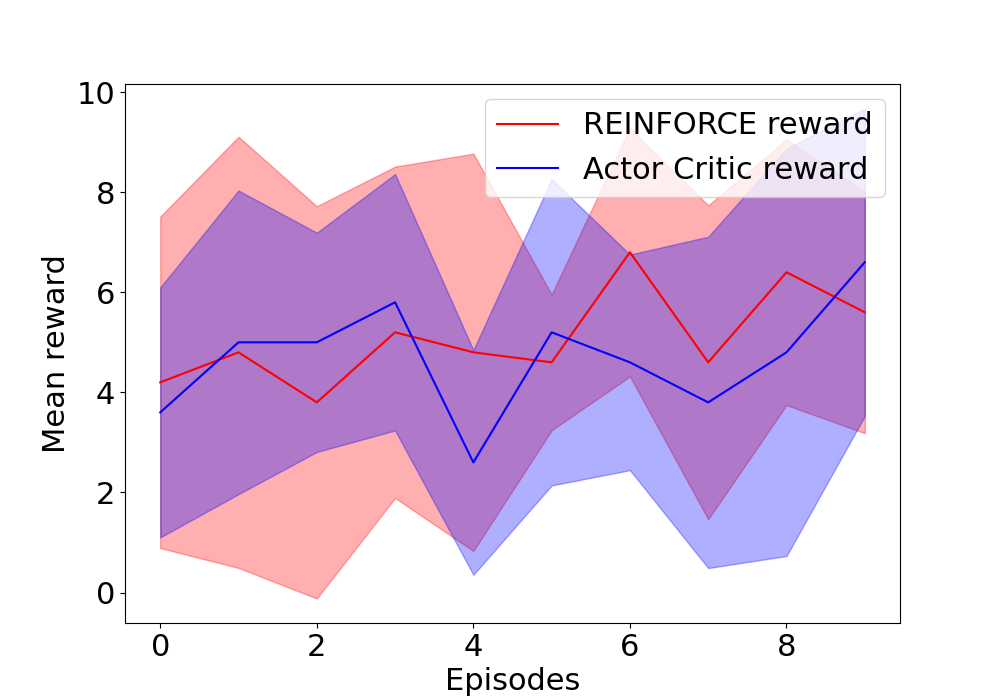
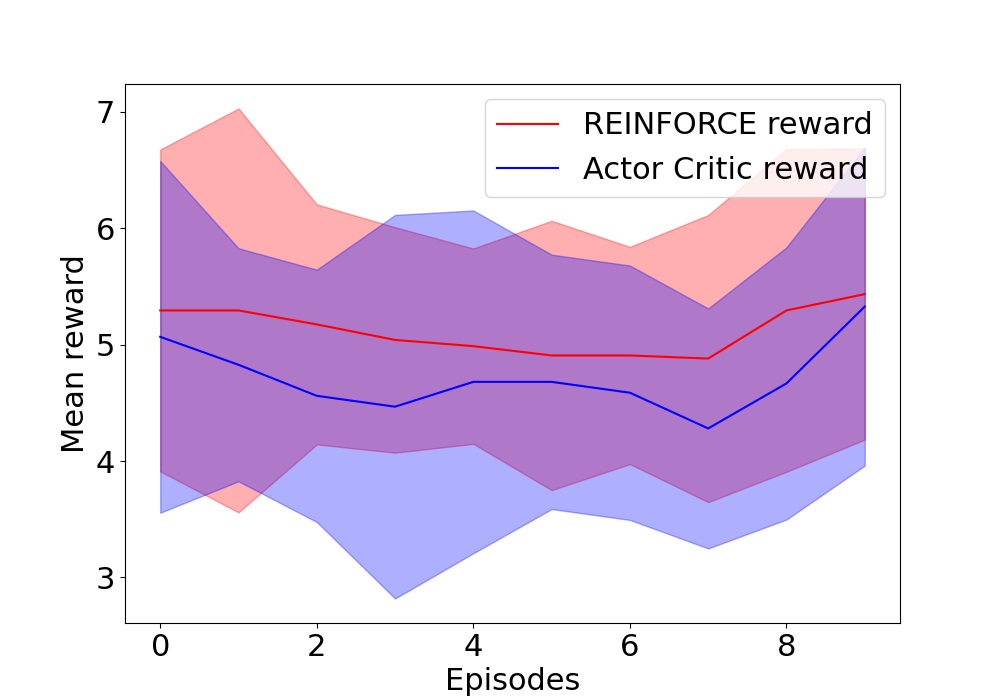
jahoe

diff --git a/TestFunctions.py b/TestFunctions.py
@@ -3,24 +3,28 @@ import time
 import sys
 
 #*******************************************************************************
-def Algorithm(nrEpisodes, interval):
-	reward_per_episodes = []
-	i = 0
-	for ep in range(nrEpisodes):
-		if i%interval==0: reward_per_episodes.append(random.randint(0, 10))
-		i+=1
+def Algorithm(nrEpisodes, interval, nrTestEpisodes):
+    reward_per_episodes = []
+    i = 0
+    for ep in range(nrEpisodes):
+        if i%interval==0: 
+            tempAvg = 0
+            for TE in range(nrTestEpisodes):
+                tempAvg += random.randint(0, 10) # TODO INSERT CODE HIER DIE ZONDER RANDOM EXPLORATIE (DUS 100% GREEDY) EEN PLAYOUT DOET VAN 1 EPISODE
+            reward_per_episodes.append(tempAvg/nrTestEpisodes)
+        i+=1
 
-		progress_bar(ep+1, nrEpisodes) 
-		time.sleep(0.005)
-	return reward_per_episodes
+        progress_bar(ep+1, nrEpisodes) 
+        time.sleep(0.005)
+    return reward_per_episodes
 #*******************************************************************************
 def progress_bar(current, total, bar_length=20):
-	percent = current / total
-	progress_length = int(bar_length * percent)
-	bar = '#' * progress_length + '-' * (bar_length - progress_length)
-	sys.stdout.write(f'\r[{bar}] {percent:.0%}')
-	sys.stdout.flush()
-	if percent == 1.0: 
-		sys.stdout.write('\r\033[K')
-		sys.stdout.flush()
+    percent = current / total
+    progress_length = int(bar_length * percent)
+    bar = '#' * progress_length + '-' * (bar_length - progress_length)
+    sys.stdout.write(f'\r[{bar}] {percent:.0%}')
+    sys.stdout.flush()
+    if percent == 1.0: 
+        sys.stdout.write('\r\033[K')
+        sys.stdout.flush()
 #*******************************************************************************

diff --git a/Experiments.py b/Experiments.py
@@ -26,15 +26,17 @@ def RunExperiment(ALGO, nameResults="testResults", repetition_count=20, params=N
 	print(average_array)
 	print(std_dev_array)
 	combinedResults = np.vstack((average_array, std_dev_array))
-	np.save(f'{nameResults}_{params['interval']}.npy', combinedResults)) # save the results containing both average and stdev in one file
+
+	np.save(f"{nameResults}_{params['interval']}.npy", combinedResults) # save the results containing both average and stdev in one file
 
 	#np.save(f'{nameResults}', np.array([average_array, std_dev_array, params['interval']])) # save the results containing both average and stdev in one file
 #*******************************************************************************
 
 
 params = {'nrEpisodes': 100,
-					'interval': 10
-				 }
+		  'interval': 10,
+		  'nrTestEpisodes': 5,
+		 }
 RunExperiment(RF, "rf", repetition_count=5, params=params) # Do experiments for REINFORCE
 RunExperiment(AC, "ac", repetition_count=5, params=params) # Do experiments for Actor Critic
 

diff --git a/plot.py b/plot.py
@@ -2,15 +2,16 @@ import numpy as np
 from scipy.signal import savgol_filter
 from matplotlib import pyplot as plt
 
-reinforce = np.load("rf.npy")
-ac = np.load("ac.npy")
+reinforce = np.load("rf_10.npy")
+ac = np.load("ac_10.npy")
 # reinforce = [np.load(f"reinforce{i}.npy") for i in range(10)]
 # ac = [np.load(f"ac{i}.npy") for i in range(10)]
 plt.rcParams.update({'font.size': 22})
 
-r_avg = savgol_filter(reinforce[0], 15, 1)
+
+r_avg = savgol_filter(reinforce[0], 3, 1)
 r_std = reinforce[1]
-ac_avg = savgol_filter(ac[0], 15, 1)
+ac_avg = savgol_filter(ac[0], 3, 1)
 ac_std = ac[1]
 
 plt.figure(1, figsize=(10,7))
